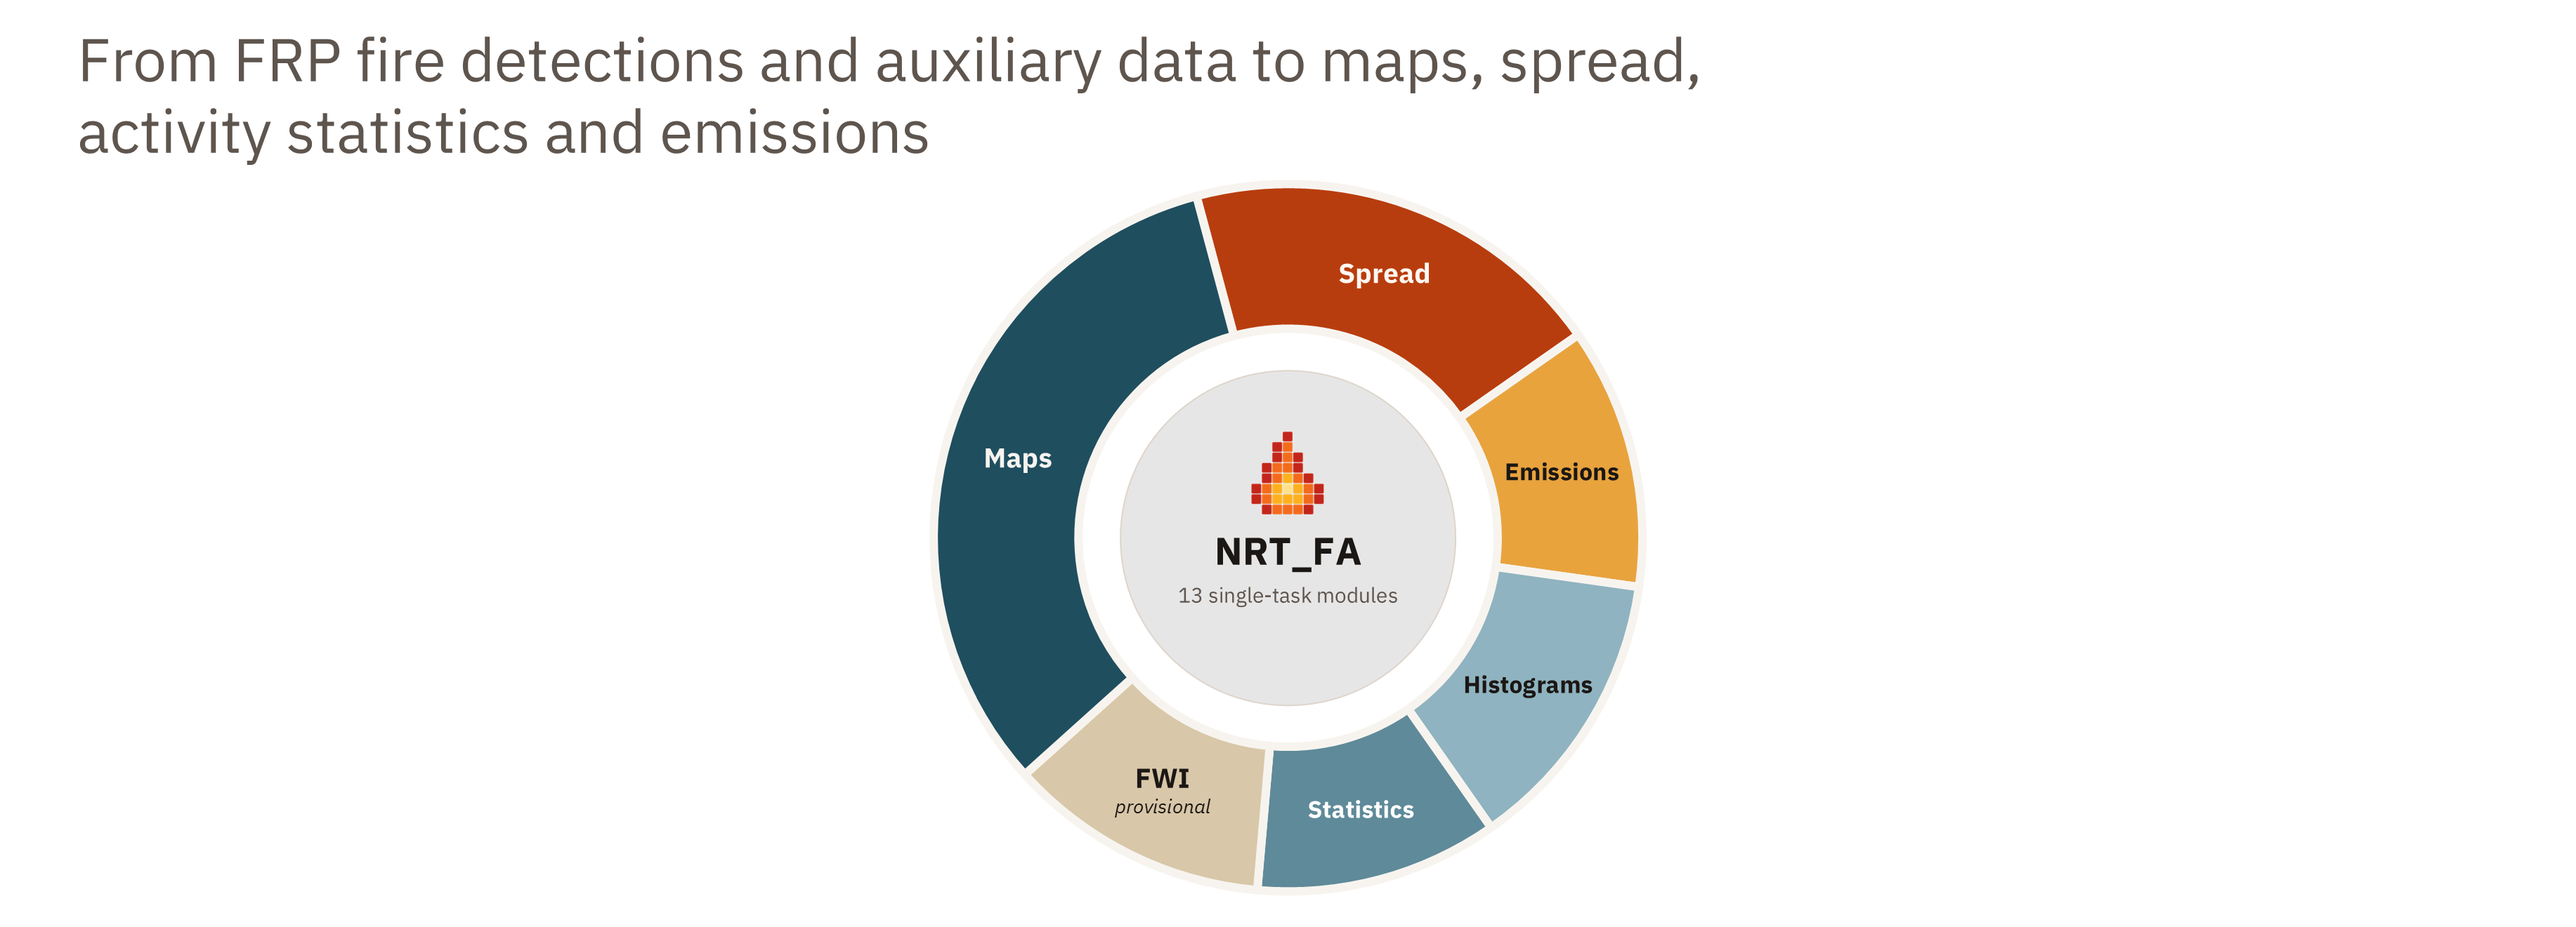
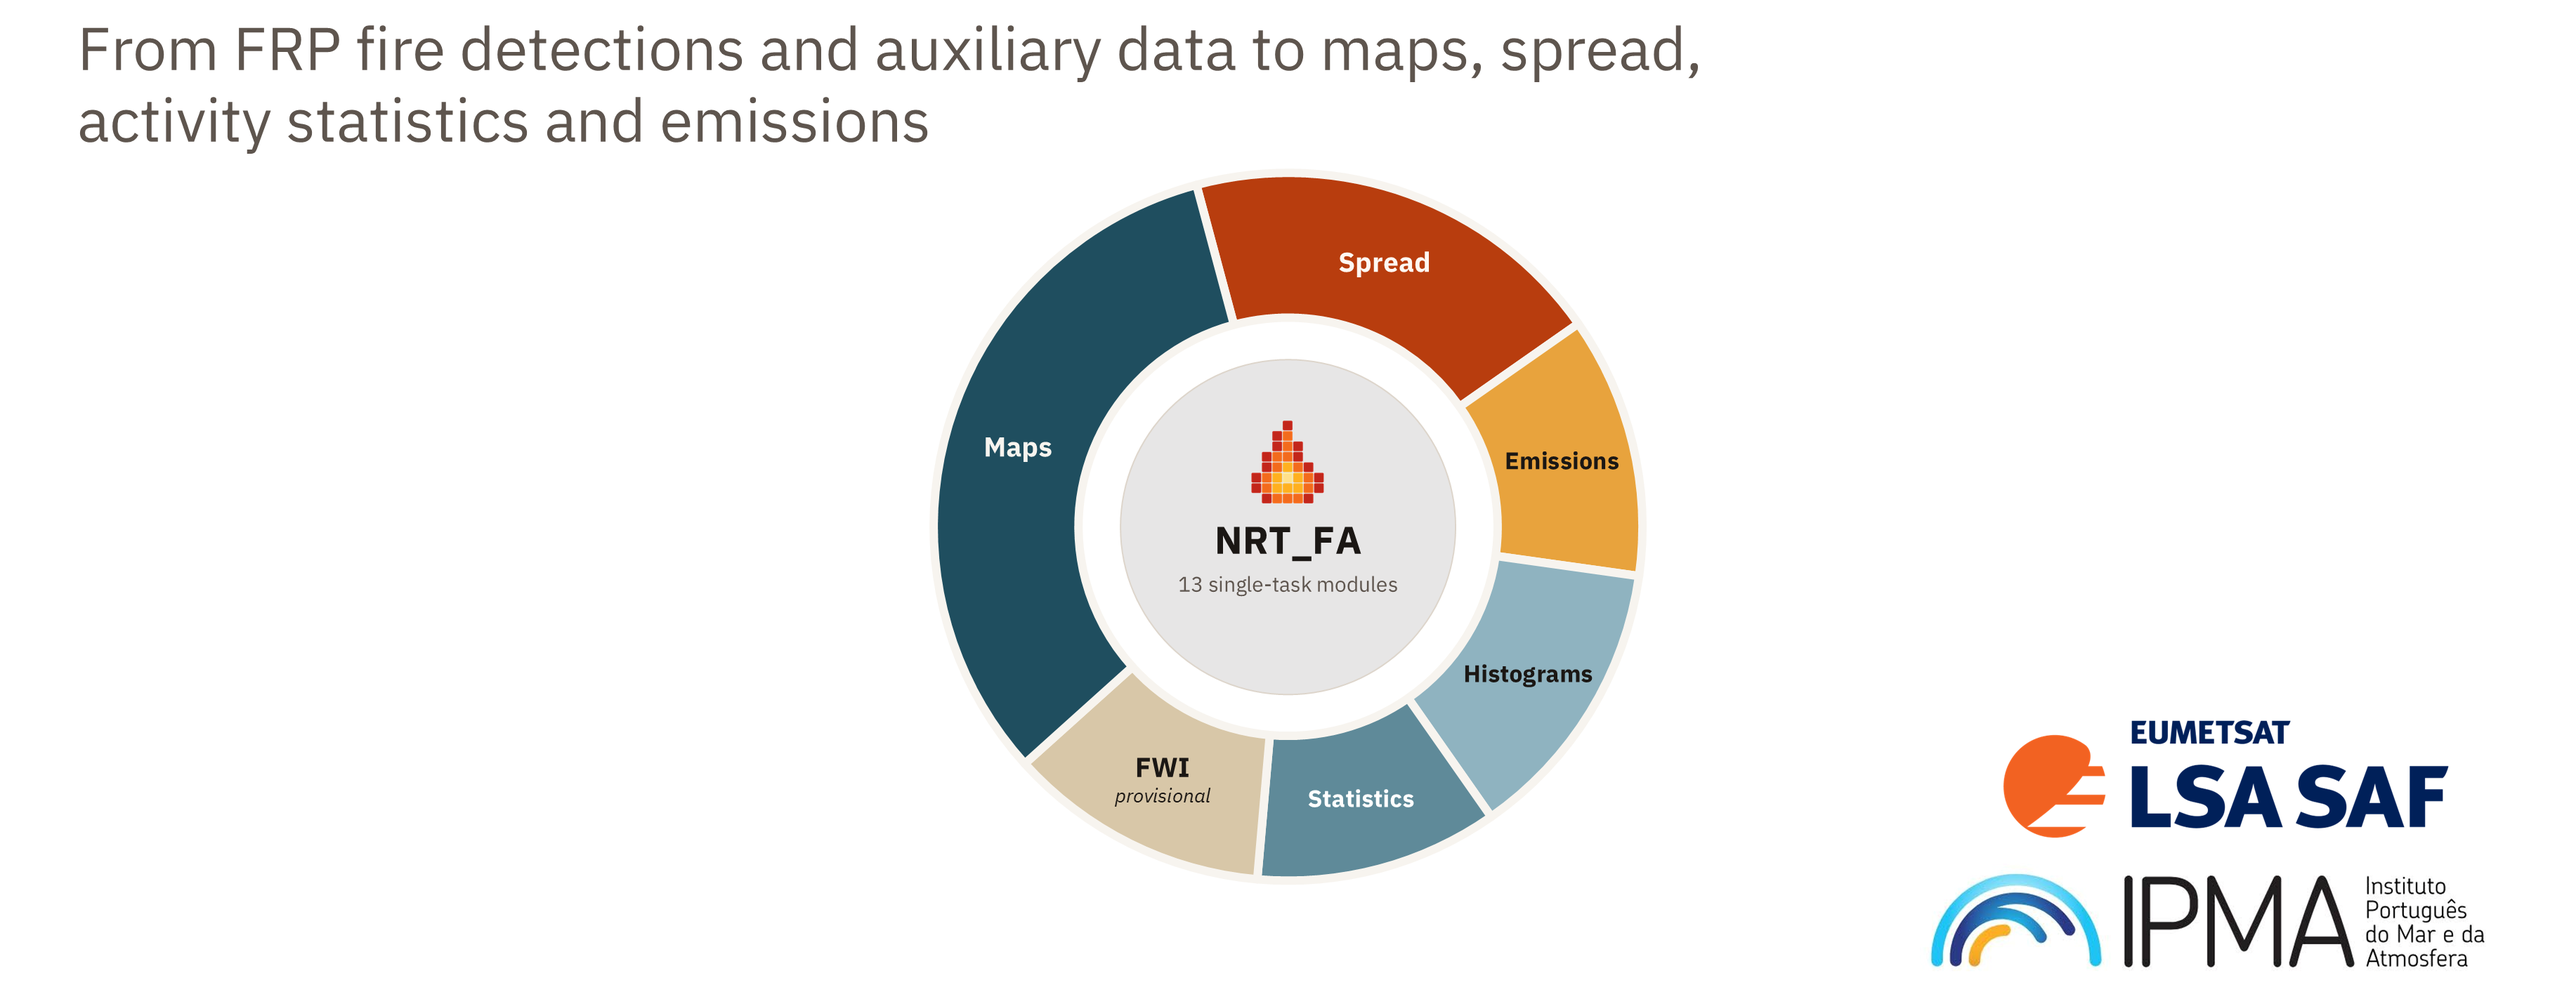
Update README and graphical abstract

diff --git a/README.md b/README.md
@@ -161,7 +161,7 @@ At the end of a run, the application asks whether you want to clean the cache. E
 
 ## Credits
 
-Developed at the **Portuguese Institute of Sea and Atmosphere (IPMA)** by Diogo Sousa, Miguel Carvalho, Rita Duarte, Rita Durão and Célia Gouveia.
+Developed at the **Portuguese Institute of Sea and Atmosphere (IPMA)** by Célia Gouveia, Diogo Sousa, Miguel Carvalho, Rita Duarte, Rita Durão and Sandra Gomes.
 
 **Acknowledgements:** EUMETSAT LSA SAF, Copernicus Data Space Ecosystem.
 
